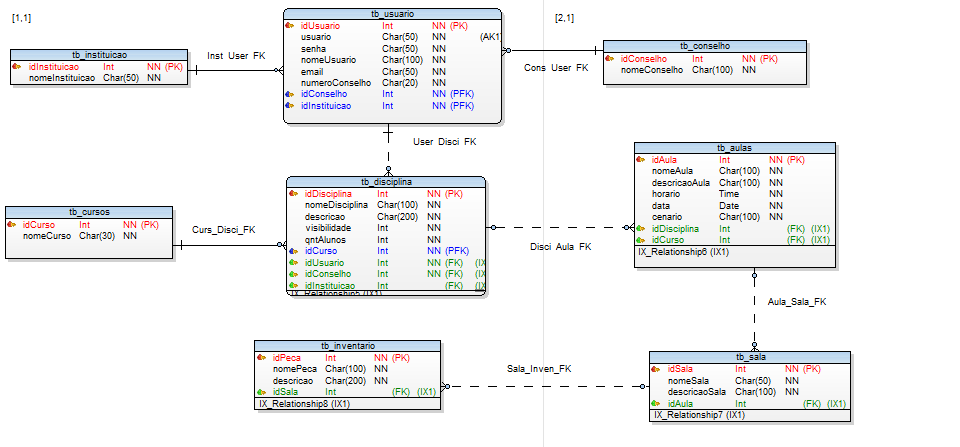
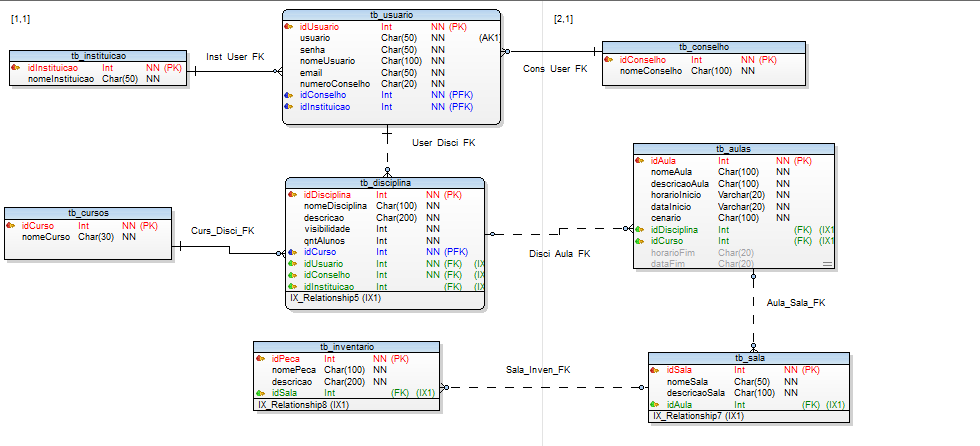
18ª Modificação
Cadastro de aula quase completo.

diff --git a/Vision/controlers.js b/Vision/controlers.js
@@ -1,0 +1,35 @@
+function mascaraData( campo, e )
+{
+    var kC = (document.all) ? event.keyCode : e.keyCode;
+    var data = campo.value;
+
+    if( kC!=8 && kC!=46 )
+    {
+        if( data.length==2 )
+        {
+            campo.value = data += '/';
+        }
+        else if( data.length==5 )
+        {
+            campo.value = data += '/';
+        }
+        else
+            campo.value = data;
+    }
+}
+
+function mascaraHorario( campo, e )
+{
+    var kC = (document.all) ? event.keyCode : e.keyCode;
+    var hora = campo.value;
+
+    if( kC!=8 && kC!=46 )
+    {
+        if( hora.length==2 )
+        {
+            campo.value = hora += ':';
+        }
+        else
+            campo.value = hora;
+    }
+}

diff --git a/Vision/cadastroDisciplina.php b/Vision/cadastroDisciplina.php
@@ -1,5 +1,6 @@
 <?php
     include "../Control/sessionControl.php";
+    include "../Control/showDisciplinas.php";
 ?>
 
 <!doctype html>
@@ -7,11 +8,13 @@
 <head>
     <meta charset="utf-8">
     <meta name="viewport" content="width=device-width, initial-scale=1">
+
     <link rel="stylesheet" href="https://maxcdn.bootstrapcdn.com/bootstrap/3.3.7/css/bootstrap.min.css">
     <script src="https://ajax.googleapis.com/ajax/libs/jquery/3.2.0/jquery.min.js"></script>
     <script src="https://maxcdn.bootstrapcdn.com/bootstrap/3.3.7/js/bootstrap.min.js"></script>
+
     <link rel="stylesheet" href="style_index.css">
-    <script src="teste.js"></script>
+    <script src="controlers.js"></script>
 
     <title>SGS - Cadastro Disciplina</title>
 </head>
@@ -198,50 +201,64 @@ include "navbar.php";
                     </div>
 
                     <div class="col-md-12">
-                        <div class="editor-label col-md-3">
-                            <label for="nomeAulaLabel" id="labelsLogin">Data</label>
+                        <div class="col-md-6 zeroPadding">
+                            <div class="editor-label col-md-6">
+                                <label for="dataInicioLabel" id="labelsLogin">Data de início</label>
+                            </div>
+                            <div class="editor-label form-inline" style="padding-bottom: 5px">
+                                <input class="form-control" type="text" name="fieldDataInicio" id="fieldDataInicio"
+                                       placeholder="dd/mm/yyyy" maxlength="10" onkeypress="mascaraData( this, event )" />
+                            </div>
                         </div>
-                        <div class="input-group date col-md-3">
-                            <input type="text" class="form-control"><span class="input-group-addon"><i class="glyphicon glyphicon-th"></i></span>
-                        </div>
-                        <div class="editor-label col-md-3">
-                            <label for="nomeAulaLabel" id="labelsLogin">Data</label>
-                        </div>
-                        <div class="input-group date col-md-3">
-                            <input type="text" class="form-control"><span class="input-group-addon"><i class="glyphicon glyphicon-th"></i></span>
+                        <div class="col-md-6 zeroPadding">
+                            <div class="editor-label col-md-6">
+                                <label for="dataFimLabel" id="labelsLogin">Data de Termino</label>
+                            </div>
+                            <div class="editor-label form-inline" style="padding-bottom: 5px">
+                                <input class="form-control" type="text" name="fieldDataFim" id="fieldDataFim"
+                                       placeholder="dd/mm/yyyy" maxlength="10" onkeypress="mascaraData( this, event )" />
+                            </div>
                         </div>
                     </div>
 
                     <div class="col-md-12">
-                        <div class="editor-label col-md-2" id="cursoLabel" style="">
-                            <label for="cursoLabel" id="labelsLogin">Curso</label>
+                        <div class="col-md-6 zeroPadding">
+                            <div class="editor-label col-md-6">
+                                <label for="horaInicioLabel" id="labelsLogin">Hora de início</label>
+                            </div>
+                            <div class="editor-label form-inline" style="padding-bottom: 5px">
+                                <input class="form-control" type="text" name="fieldHoraInicio" id="fieldHoraInicio"
+                                       placeholder="hh:mm" maxlength="5" onkeypress="mascaraHorario( this, event )" />
+                            </div>
+                        </div>
+                        <div class="col-md-6 zeroPadding">
+                            <div class="editor-label col-md-6">
+                                <label for="dataFimLabel" id="labelsLogin">Hora de Termino</label>
+                            </div>
+                            <div class="editor-label form-inline" style="padding-bottom: 5px">
+                                <input class="form-control" type="text" name="fieldHoraFim" id="fieldHoraFim"
+                                       placeholder="hh:mm" maxlength="5" onkeypress="mascaraHorario( this, event )" />
+                            </div>
+                        </div>
+                    </div>
+
+
+                    <div class="col-md-12">
+                        <div class="editor-label col-md-2" id="disciplinaLabel" style="">
+                            <label for="disciplinaLabel" id="labelsLogin">Disciplina</label>
                         </div>
                         <div class="dropdown col-md-4" style="">
-                            <select class="btn btn-default dropdown-toggle" type="button" data-toggle="dropdown" name="dropCurso"
+                            <select class="btn btn-default dropdown-toggle" type="button" data-toggle="dropdown" name="dropDisciplina"
                                     style="width: 100%">
-                                <option value="1">Biomedicina - diurno</option>
-                                <option value="2">Biomedicina - noturno</option>
-                                <option value="3">Enfermagem</option>
-                                <option value="4">Farmácia</option>
-                                <option value="5">Física Médica</option>
-                                <option value="6">Fisioterapia</option>
-                                <option value="7">Fonoaudiologia</option>
-                                <option value="8">Gastronomia</option>
-                                <option value="9">Gestão em Saúde</option>
-                                <option value="10">Informática Biomédica</option>
-                                <option value="11">Medicina</option>
-                                <option value="12">Nutrição</option>
-                                <option value="13">Psicologia</option>
-                                <option value="14">Química Medicinal</option>
-                                <option value="15">Tecnologia em Alimentos</option>
-                                <option value="16">Toxicologia Analítica</option>
+                                <?php
+                                $count=0;
+                                while ($row = mysqli_fetch_assoc($result2)) {
+
+                                    echo "<option value=\"{$count}\">".$row['nomeDisciplina']."</option>";
+                                    $count++;
+                                }?>
                             </select>
-
                         </div>
-                        <div class="col-md-6 checkbox">
-                            <label><input type="checkbox" value="1" name="fieldVisibilidade">Disciplina visível para todos</label>
-                        </div>
-
                     </div>
 
                     <div class="col-md-12">

diff --git a/Control/inserirAula.php b/Control/inserirAula.php
@@ -1,0 +1,47 @@
+<?php
+
+require "../Control/controleDoBanco.php";
+include "sessionControl.php";
+
+inserirAula();
+
+
+function inserirAula(){
+
+    $nomeAula = $_POST['fieldNomeAula'];
+    $dataInicio = $_POST['fieldDataInicio'];
+    $dataFim = $_POST['fieldDataFim'];
+    $horaInicio = $_POST['fieldHoraInicio'];
+    $horaFim = $_POST['fieldHoraFim'];
+    $cenario = $_POST['fieldCenarioAula'];
+    $descricaoAula = $_POST['fieldDescricaoAula'];
+
+    $idUsuario = $_SESSION['idUsuario'];
+
+    $conn = abrirDatabase();
+
+
+    $inserirDisciplina = "INSERT INTO tb_aulas(nomeAula, descricaoAula, horarioInicio, dataInicio, cenario, idDisciplina, idCurso, horarioFim, dataFim)
+                            VALUES('{$nomeAula}','{$descricaoAula}','{$horaInicio}','{$dataInicio}','{$cenario}','{}','{}','{$horaFim}','{$dataFim}')";
+
+    if ($nomeDisci and $qntAlunos and $curso and $descricao){
+        if ($conn->query($inserirDisciplina)==true){
+
+            echo '<SCRIPT>
+                        confirm("Disciplina cadastrada no sistema!");
+                        window.location.href = "../Vision/cadastroDisciplina.php";
+                      </SCRIPT>';
+        }else{
+            echo '<SCRIPT>
+                        confirm("Erro ao cadastrar a disciplina no banco de dados!");
+                        window.location.href = "../Vision/cadastroDisciplina.php";
+                      </SCRIPT>';
+        }
+    }else{
+        echo '<SCRIPT>
+                        confirm("Algum campo não foi preenchido!");
+                        window.location.href = "../Vision/cadastroDisciplina.php";
+                      </SCRIPT>';
+    }
+}
+?>

diff --git a/Control/showDisciplinas.php b/Control/showDisciplinas.php
@@ -1,0 +1,19 @@
+<?php
+
+require "../Control/controleDoBanco.php";
+
+$result2 = showAula();
+
+
+function showAula(){
+
+    $conn = abrirDatabase();
+
+
+    $selectDisciplinas= "SELECT tb_disciplina.nomeDisciplina FROM tb_disciplina";
+
+    return mysqli_query($conn, $selectDisciplinas);
+
+
+}
+?>

diff --git a/Control/inserirDisciplina.php b/Control/inserirDisciplina.php
@@ -23,6 +23,7 @@ function inserirDisciplina(){
     $idConselho = $_SESSION['idConselho'];
     $idInstituicao = $_SESSION['idInstituicao'];
 
+
     $conn = abrirDatabase();
 
     $inserirDisciplina = "INSERT INTO tb_disciplina(nomeDisciplina, descricao, visibilidade, qntAlunos, idCurso,
